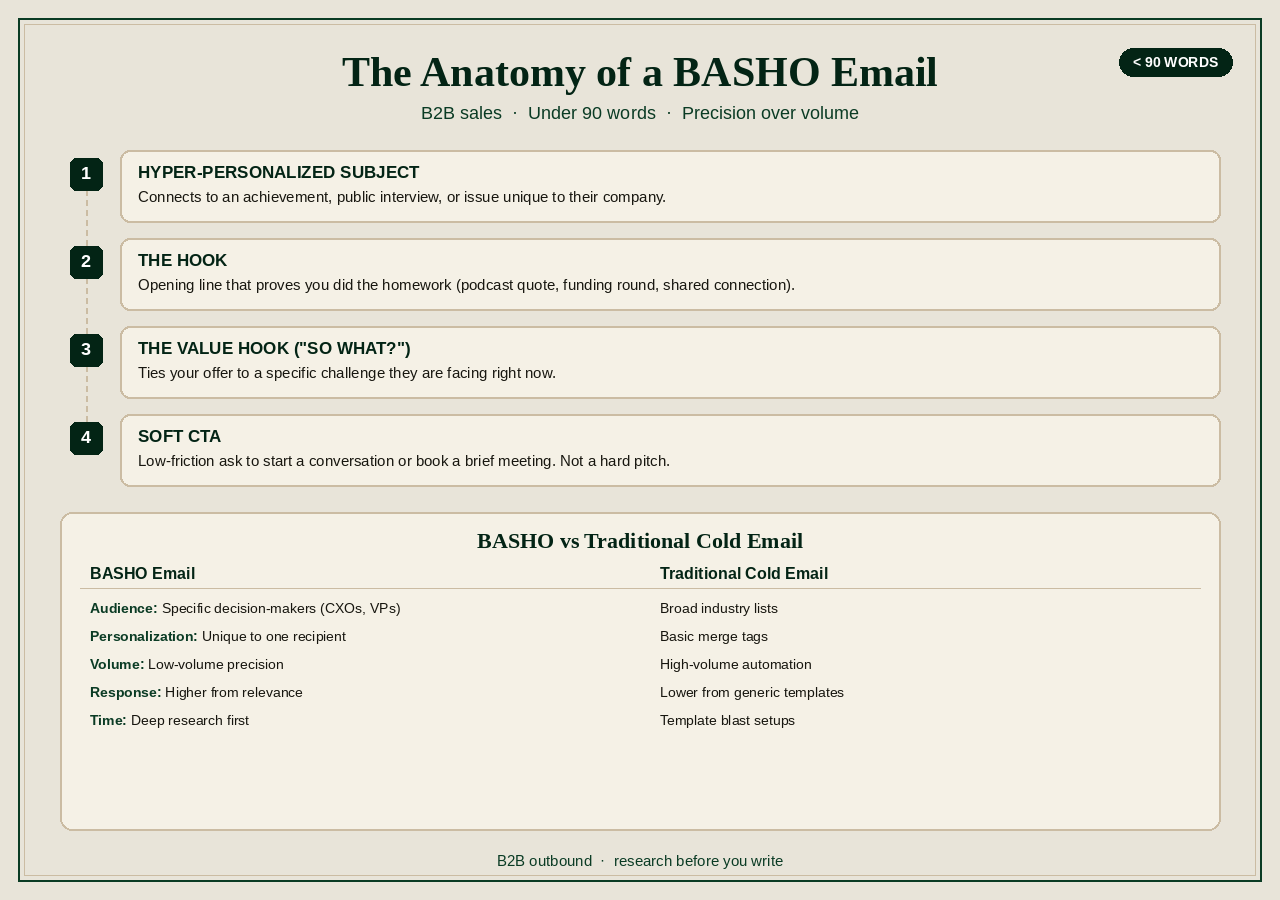
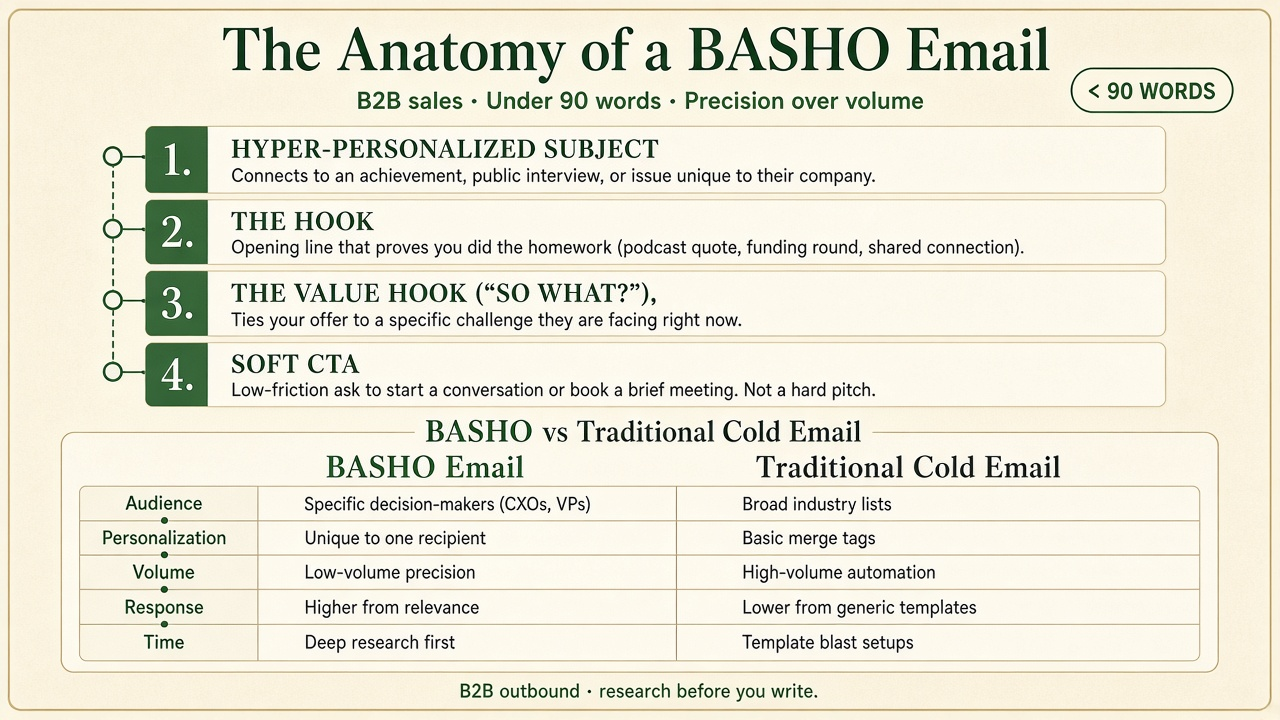
Swap the sales-agent diagrams for the approved assets.
Use the Sales Agent tool map and the sharper Basho anatomy, and name the tools figure What the AI sales agent uses.

Changed region(s): [[0.0, 0.0, 1.0, 1.0]]

diff --git a/src/content/guides/ai-sales-agent.tsx b/src/content/guides/ai-sales-agent.tsx
@@ -203,10 +203,10 @@ export function GuideBody() {
           </p>
           <GuideFigure
             src="/photos/guides/ai-sales-agent/basho-anatomy.png"
-            alt="Basho email anatomy: hyper-personalized subject, hook, value hook, and soft CTA, each under 90 words."
+            alt="The anatomy of a Basho email: hyper-personalized subject, the hook, the value hook, and a soft CTA, plus a comparison with traditional cold email. Under 90 words."
             width={1280}
-            height={900}
-            caption="Basho anatomy. Under 90 words. Precision over volume."
+            height={720}
+            caption="The anatomy of a Basho email. Under 90 words. Precision over volume."
           />
           <h3>The anatomy (under 90 words, precision over volume)</h3>
           <div className="guide-rules" role="table" aria-label="Basho anatomy">
@@ -336,17 +336,17 @@ export function GuideBody() {
       <GuideReveal>
         <section className="guide-section" aria-labelledby="tools">
           <p className="guide-kicker">07</p>
-          <h2 id="tools">AI Agent Sales Tools</h2>
+          <h2 id="tools">What the AI sales agent uses</h2>
           <p>
             Give every tool one job so the agent cannot hide truth in the wrong
             app. Connect only what you will actually use this month.
           </p>
           <GuideFigure
             src="/photos/guides/ai-sales-agent/ai-sales-agent-tools.png"
-            alt="AI sales agent tool stack: Breakcold as system of record, with Clay, TrulyInbox, Smartlead, Gmail, Cal.com, LinkedIn, and WhatsApp around the agent."
-            width={1680}
-            height={1580}
-            caption="One job per tool. Breakcold stays the system of record."
+            alt="What the AI sales agent uses. Connected tools around a Sales Agent hub: Breakcold CRM, Clay, LinkedIn, Smartlead, TrulyInbox, WhatsApp, and Email. You still approve sends."
+            width={1280}
+            height={720}
+            caption="What the AI sales agent uses. Connected tools. You still approve sends."
           />
           <ul className="guide-tools">
             <li className="guide-tool">

diff --git a/src/lib/guides.ts b/src/lib/guides.ts
@@ -132,7 +132,7 @@ export const longGuides: LongGuide[] = [
       { id: "basho", label: "How Basho emails work" },
       { id: "skills", label: "Skills to install" },
       { id: "routines", label: "Routines to schedule" },
-      { id: "tools", label: "Sales agent tools" },
+      { id: "tools", label: "What the AI sales agent uses" },
       { id: "setup", label: "Setup on Grok Bot" },
       { id: "what-you-approve", label: "What the founder still approves" },
       { id: "conclusion", label: "What you walk away with" },
